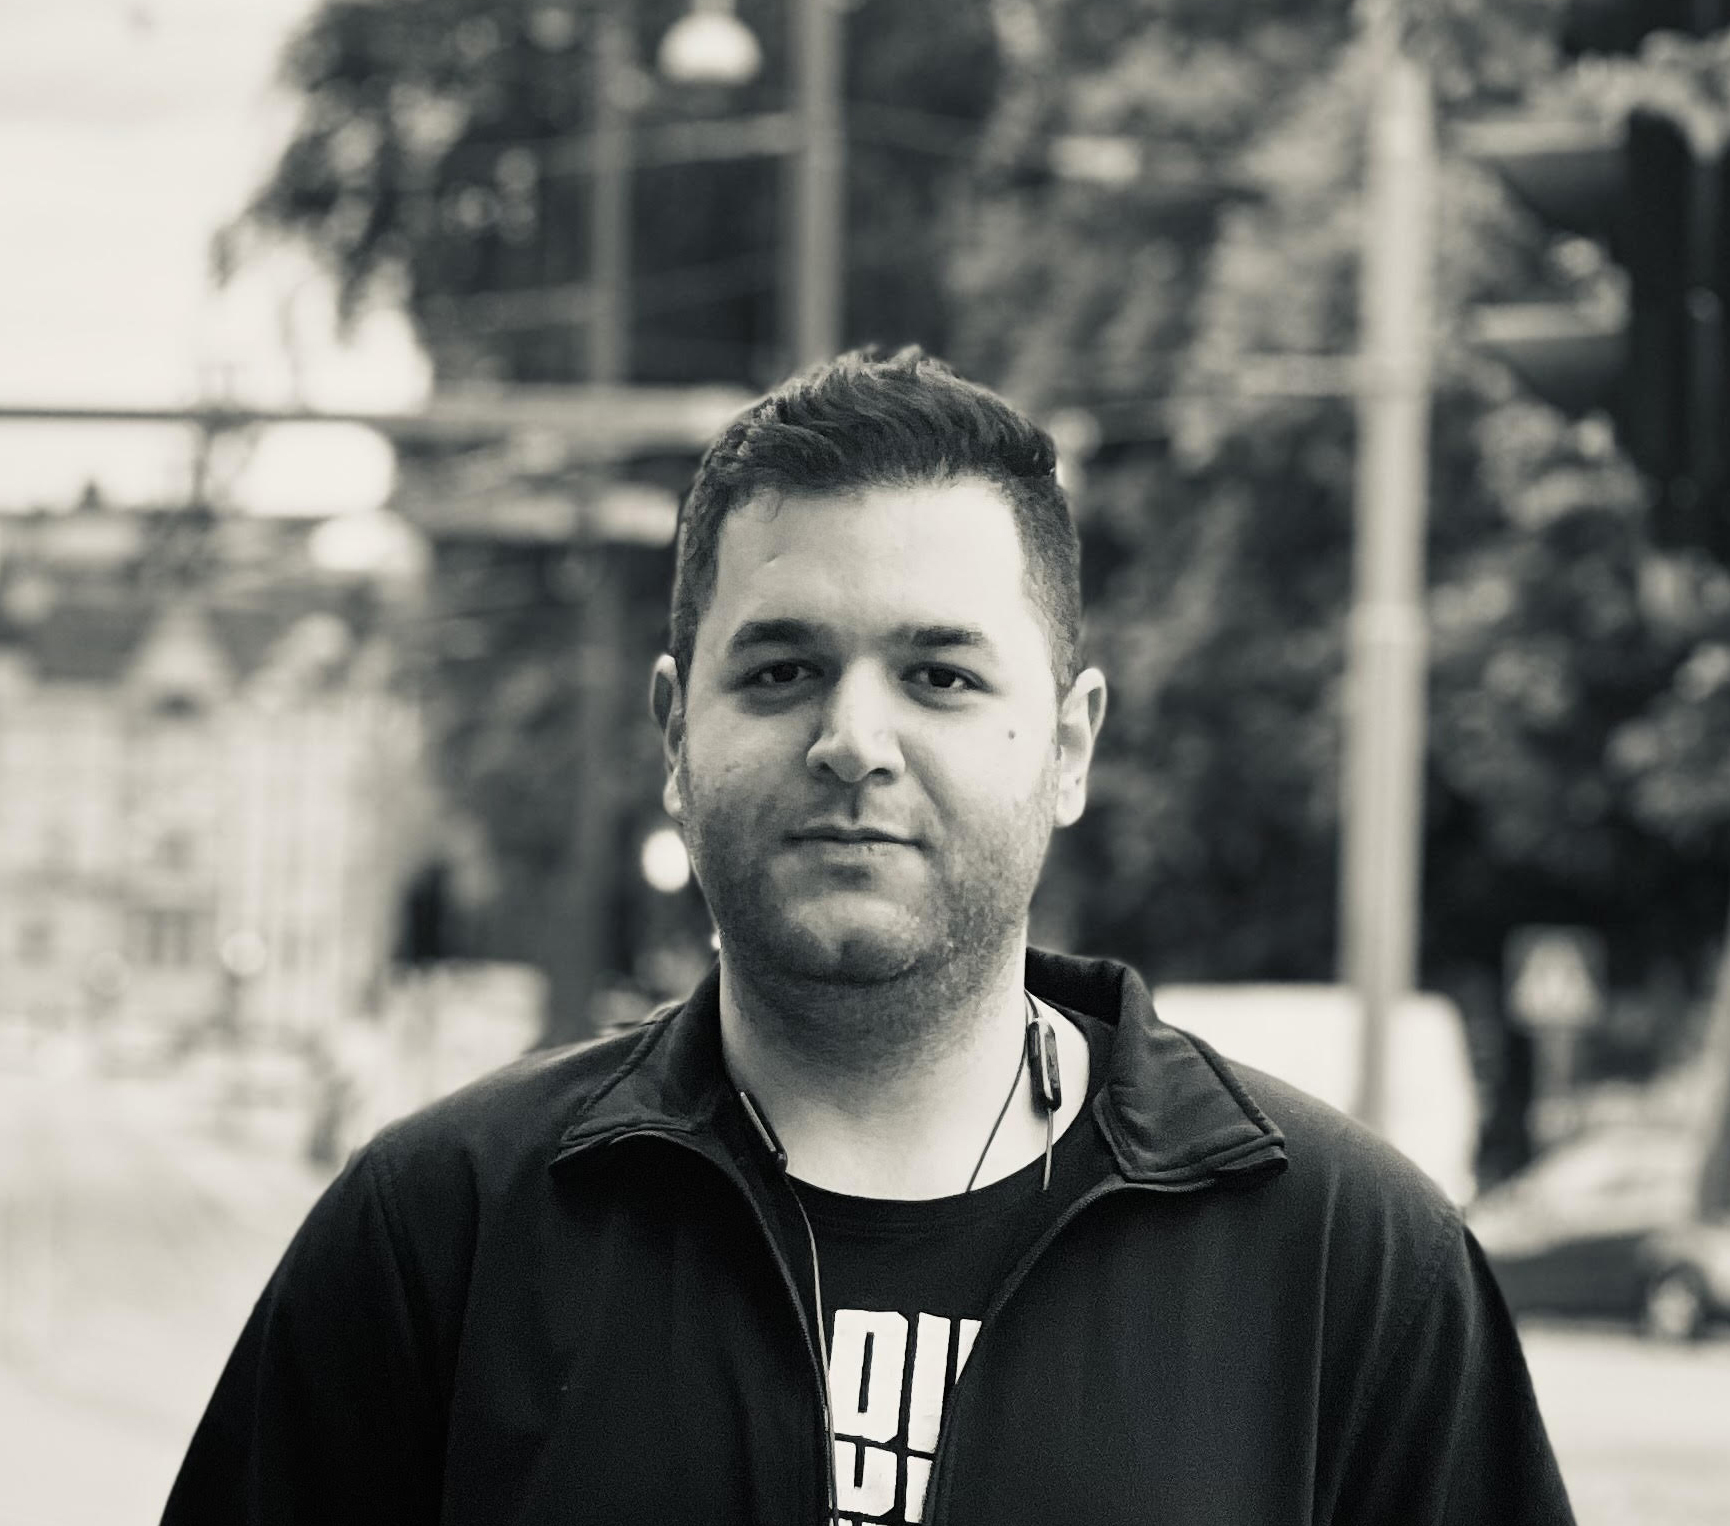
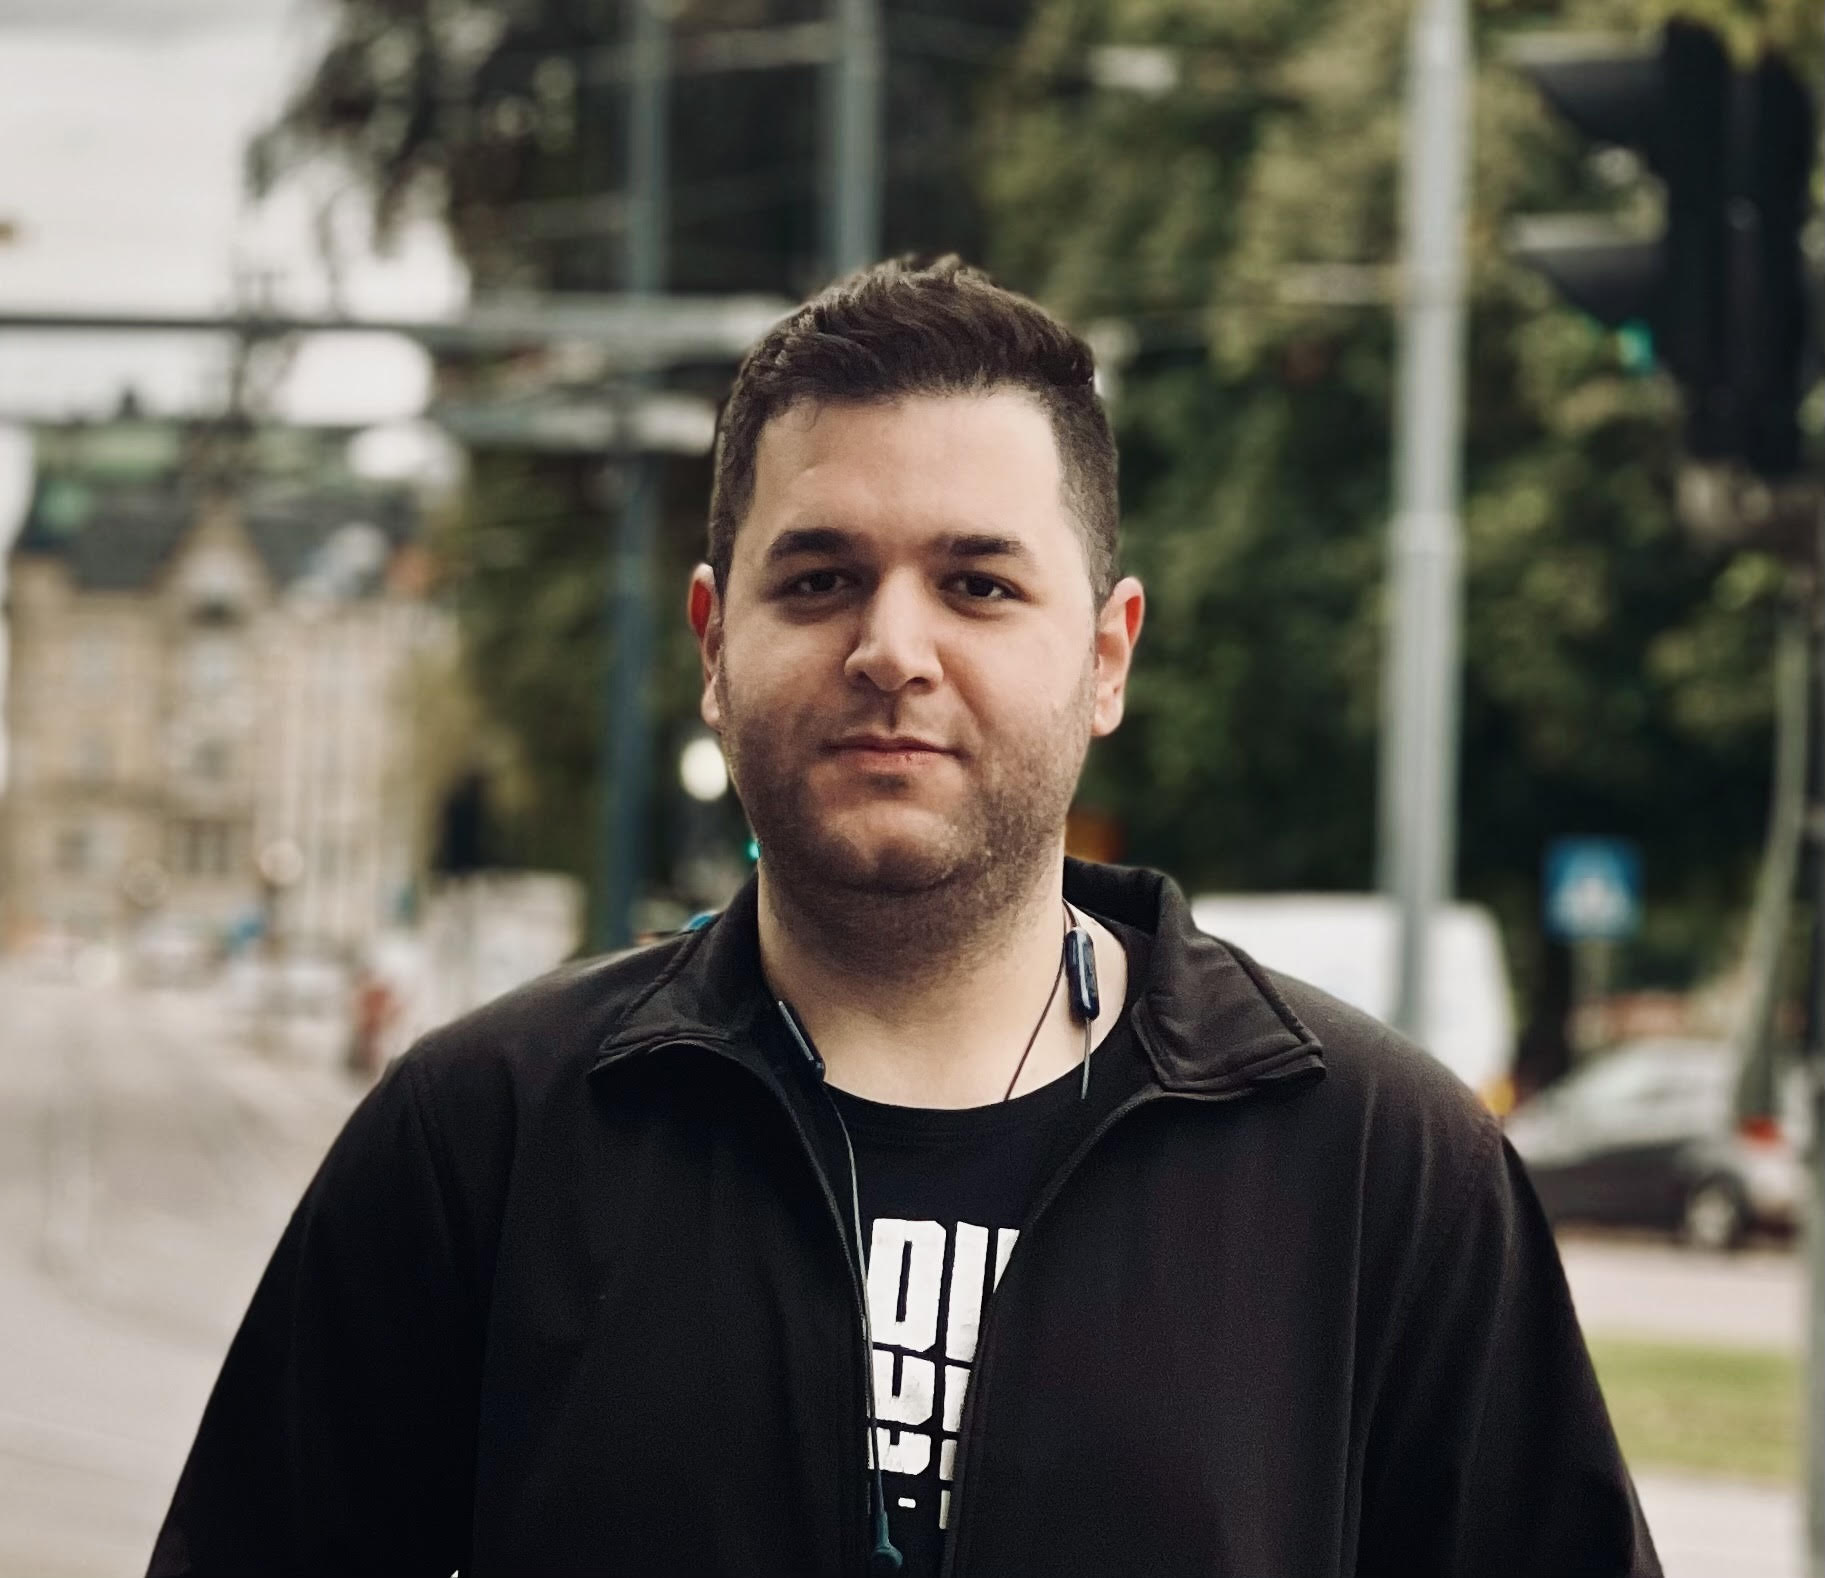
Update demo

diff --git a/index.html b/index.html
@@ -61,10 +61,22 @@ nav.scrolled{background:rgba(6,10,18,.92);backdrop-filter:blur(16px);border-bott
   opacity:0;transform:translateY(12px);animation:fadeup .7s .58s forwards
 }
 .hero-authors{
+  display:flex;align-items:center;gap:14px;flex-wrap:wrap;
   font-family:'JetBrains Mono',monospace;font-size:13px;color:var(--muted);margin-bottom:2.25rem;
   opacity:0;animation:fadeup .7s .72s forwards
 }
 .hero-authors b{color:var(--muted2)}
+.hero-author-stack{display:flex;align-items:center}
+.hero-author-stack img{
+  width:42px;height:42px;border-radius:50%;object-fit:cover;display:block;
+  border:2px solid rgba(6,10,18,.92);margin-left:-10px;
+  box-shadow:0 12px 24px rgba(0,0,0,.24)
+}
+.hero-author-stack img:first-child{margin-left:0}
+.hero-author-javad{object-position:center 20%}
+.hero-author-maheri{object-position:center 14%}
+.hero-author-hamed{object-position:center 12%}
+.hero-author-text{display:flex;flex-wrap:wrap}
 .hero-btns{display:flex;gap:1rem;flex-wrap:wrap;opacity:0;animation:fadeup .7s .86s forwards}
 
 .btn{
@@ -287,7 +299,14 @@ footer a{color:var(--cyan);text-decoration:none}
       <h1><em>GuardNet</em></h1>
       <p class="hero-title-sub">Unified Graph-Attention Defense for Jailbreak and Prompt-Leakage Attacks</p>
       <p class="hero-sub">A pre-inference filter that builds hybrid token graphs, flags adversarial prompts at the prompt level, localizes malicious spans at the token level, and only then forwards safe or sanitized input to the target LLM.</p>
-      <div class="hero-authors"><b>Javad Forough</b> &nbsp;&middot;&nbsp; <b>Mohammad M Maheri</b> &nbsp;&middot;&nbsp; <b>Hamed Haddadi</b> &nbsp;&middot;&nbsp; Imperial College London</div>
+      <div class="hero-authors">
+        <div class="hero-author-stack" aria-hidden="true">
+          <img class="hero-author-javad" src="assets/javad.jpg" alt="">
+          <img class="hero-author-maheri" src="assets/Maheri.jpg" alt="">
+          <img class="hero-author-hamed" src="assets/hamed.jpg" alt="">
+        </div>
+        <div class="hero-author-text"><b>Javad Forough</b> &nbsp;&middot;&nbsp; <b>Mohammad M Maheri</b> &nbsp;&middot;&nbsp; <b>Hamed Haddadi</b> &nbsp;&middot;&nbsp; Imperial College London</div>
+      </div>
       <div class="hero-btns">
         <a href="https://arxiv.org/pdf/2509.23037" class="btn btn-cyan" target="_blank" rel="noopener noreferrer">Read paper</a>
         <a href="#demo" class="btn btn-ghost">Interactive demo</a>
